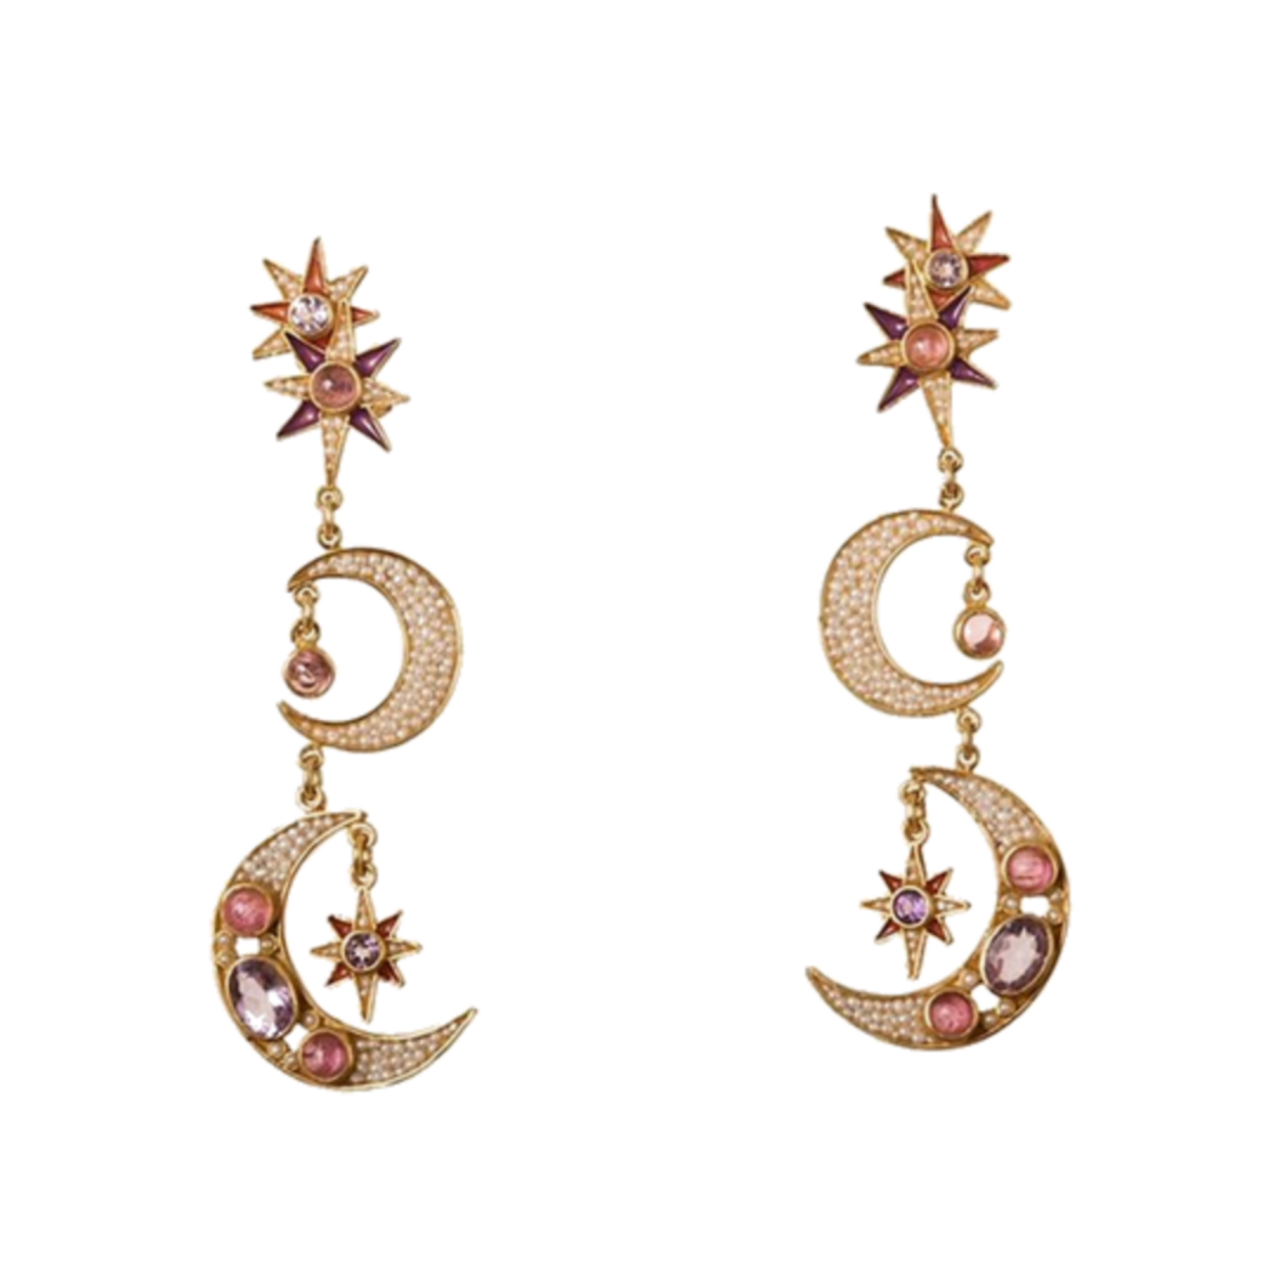
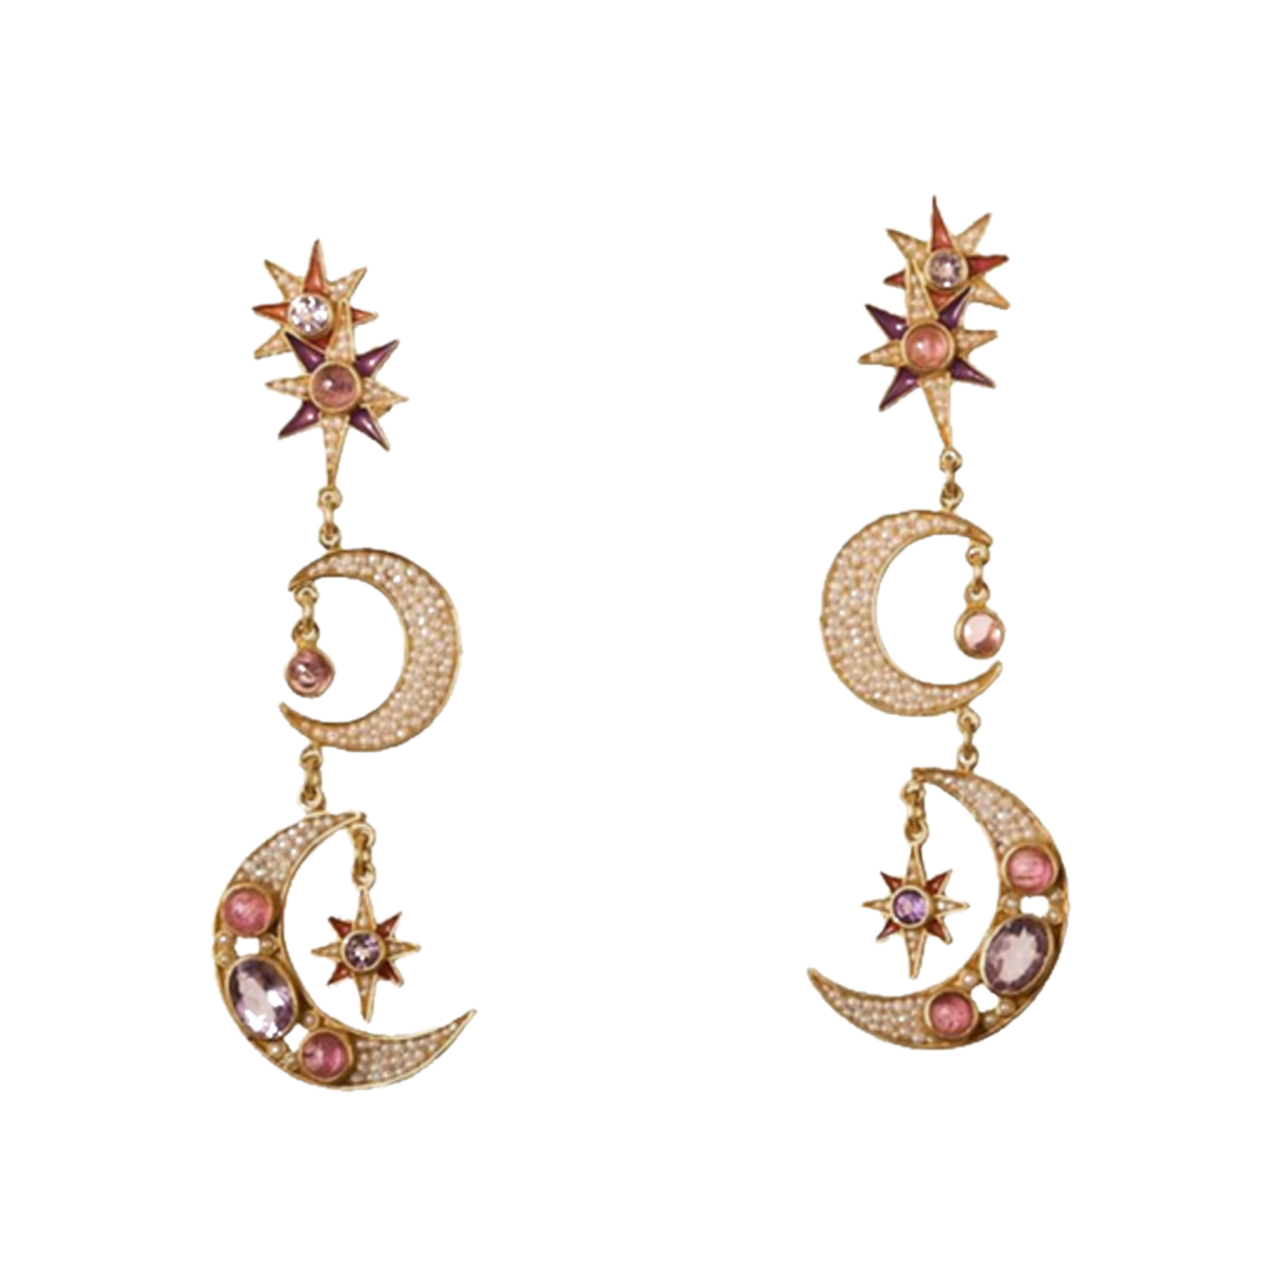
Removed backgorunds from earrings and changed to .png

diff --git a/client/src/images/earrings/earrings.js b/client/src/images/earrings/earrings.js
@@ -1,28 +1,28 @@
-import amethystGarnetDrop from './amethyst_garnet_shipSail_drop.jpg'
-import amethystStud from './amethyst_stud.jpg'
-import butterflyDoubleHoop from './butterfly_double_hoop.jpg'
+import amethystGarnetDrop from './amethyst_garnet_shipSail_drop.png'
+import amethystStud from './amethyst_stud.png'
+import butterflyDoubleHoop from './butterfly_double_hoop.png'
 import diamondInfinityStud from './diamond_infinity_stud.png'
-import dimaondLeafDrop from './diamond_leaf_6Shape_stud.jpg'
-import wrappedDiamondHoop from './wrapped_diamond_hoop.jpg'
-import duck from './duck.jpg'
-import emeraldDiamondDrop from './emerald_diamond_drop.jpg'
-import emeraldDrop from './emerald_drop.jpg'
-import goldDiamondHorseshoeStud from './gold_diamond_horseshoe_stud.jpg'
+import dimaondLeafDrop from './diamond_leaf_6Shape_stud.png'
+import wrappedDiamondHoop from './wrapped_diamond_hoop.png'
+import duck from './duck.png'
+import emeraldDiamondDrop from './emerald_diamond_drop.png'
+import emeraldDrop from './emerald_drop.png'
+import goldDiamondHorseshoeStud from './gold_diamond_horseshoe_stud.png'
 import goldEmeraldLeafDrop from './gold_emerald_leaf_drop.png'
 import goldHoop from './gold_hoop.png'
 import goldPearlHoop from './gold_pearl_hoop.png'
-import goldPlatinumDiamondHoop from './gold_platinum_diamond_hoop.jpg'
+import goldPlatinumDiamondHoop from './gold_platinum_diamond_hoop.png'
 import moonAndStarDrop from './moon_and_star_drop.png'
-import pearlDiamondDangle from './pearl_diamond_dangle.jpg'
-import pearlDrop from './pearl_drop.jpg'
-import pearlStud from './pearl_stud.jpg'
-import tearDropRuby_drop from './ruby_teardrop_drop.jpg'
+import pearlDiamondDangle from './pearl_diamond_dangle.png'
+import pearlDrop from './pearl_drop.png'
+import pearlStud from './pearl_stud.png'
+import tearDropRuby_drop from './ruby_teardrop_drop.png'
 import sapphireFlowerStud from './sapphire_flower_stud.png'
-import silverHoop from './silver_hoop.jpg'
-import sterlingEmeraldDrop from './sterling_emerald_drop.jpg'
-import tagauStack from './tagau_stack.jpg'
-import whiteGoldAquamarineStud from './white_gold_aquamarine_diamond_cluster_stud.jpg'
-import whiteGoldDiamondDangle from './white_gold_diamond_8Shape_dangle.jpg'
+import silverHoop from './silver_hoop.png'
+import sterlingEmeraldDrop from './sterling_emerald_drop.png'
+import tagauStack from './tagau_stack.png'
+import whiteGoldAquamarineStud from './white_gold_aquamarine_diamond_cluster_stud.png'
+import whiteGoldDiamondDangle from './white_gold_diamond_8Shape_dangle.png'
 
 const earring_images = [
     amethystGarnetDrop,
